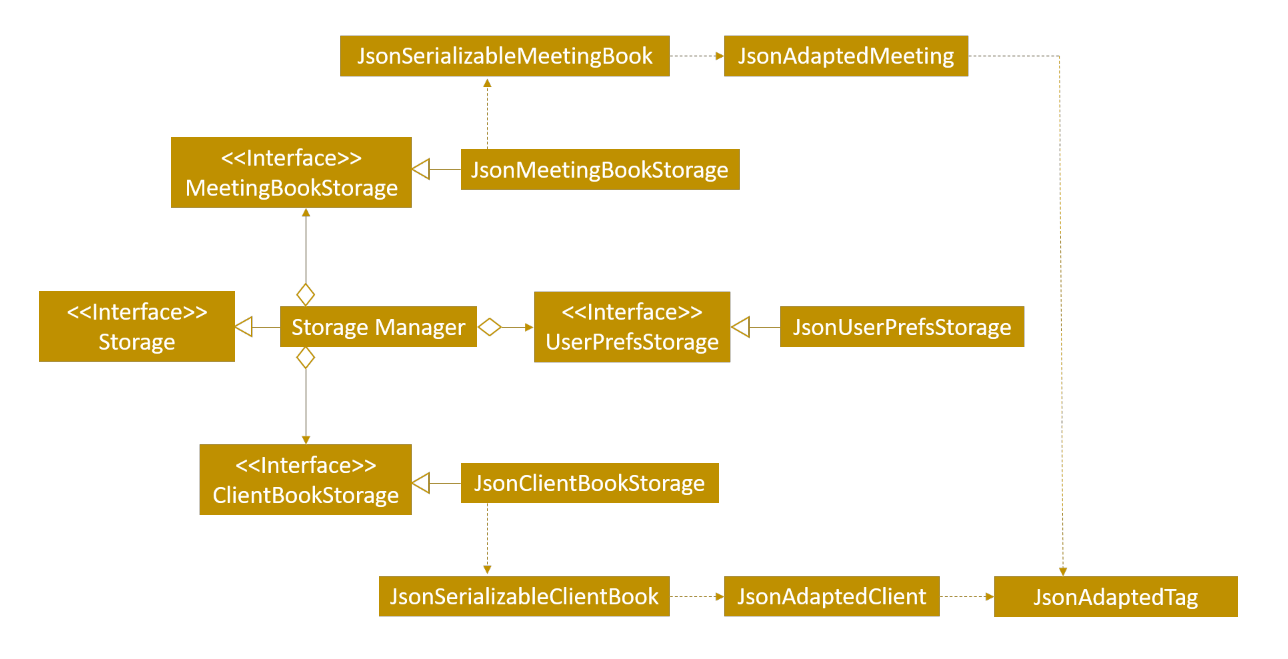
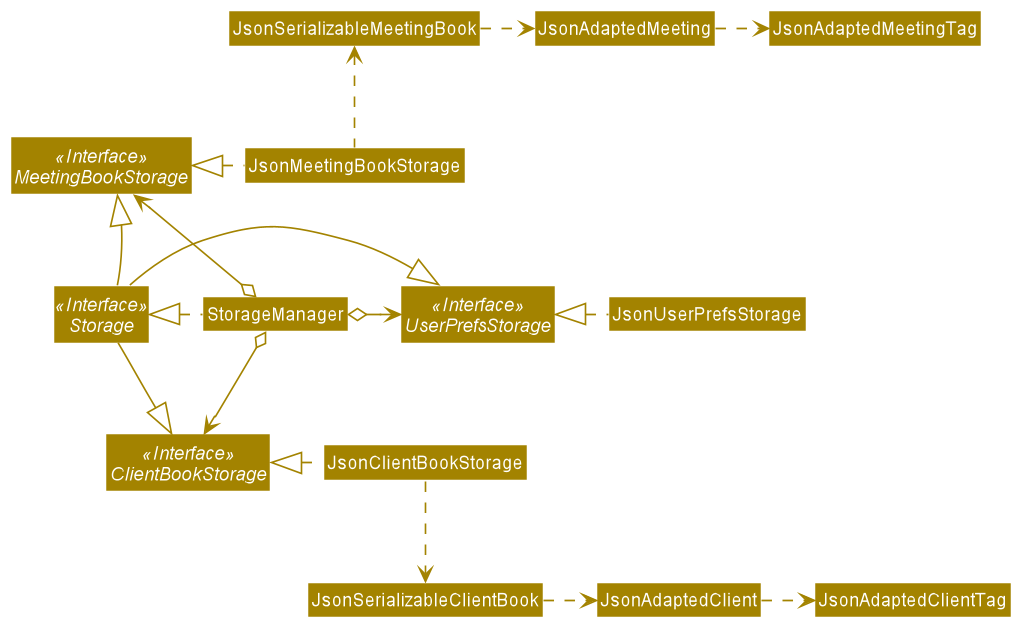
Update images in StorageClassDiagram and LogicClassDiagram to include updated storage

diff --git a/docs/DeveloperGuide.md b/docs/DeveloperGuide.md
@@ -122,7 +122,7 @@ The `Meeting` object,
 
 ![Structure of the Storage Component](images/StorageClassDiagram.png)
 
-**API** : [`Storage.java`](https://github.com/se-edu/ClientBook-level3/tree/master/src/main/java/seedu/location/storage/Storage.java)
+**API** : [`Storage.java`](https://github.com/AY2021S2-CS2103-W17-4/tp/blob/master/src/main/java/seedu/iscam/storage/Storage.java)
 
 The `Storage` component,
 * can save `UserPref` objects in json format and read it back.
